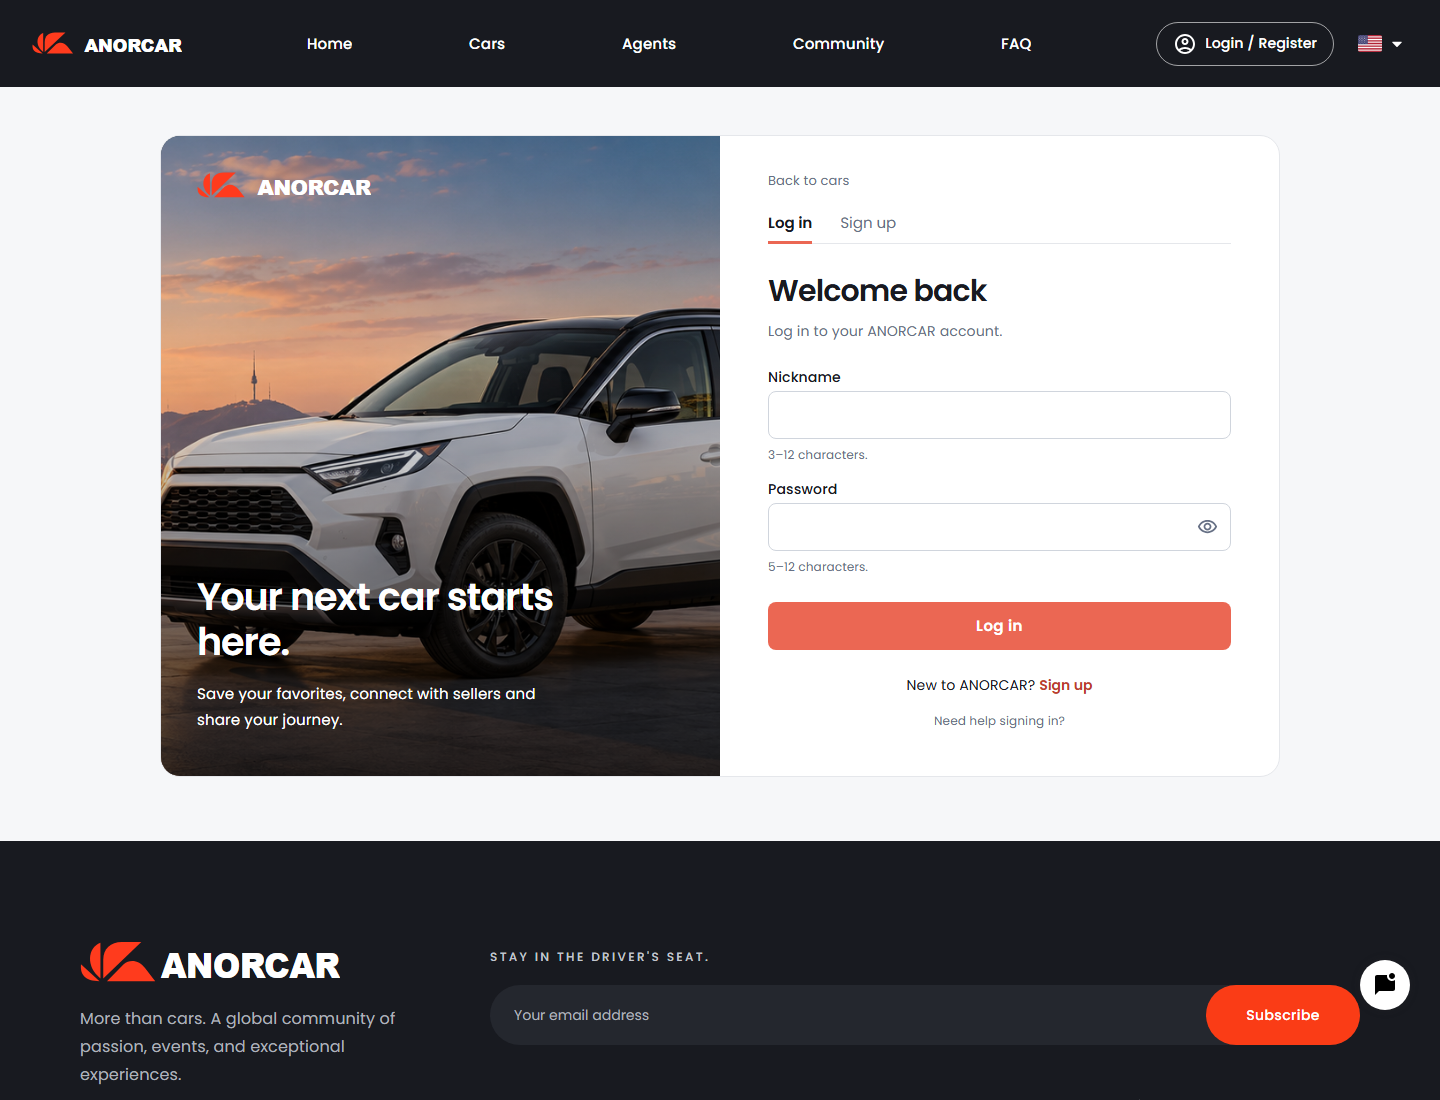
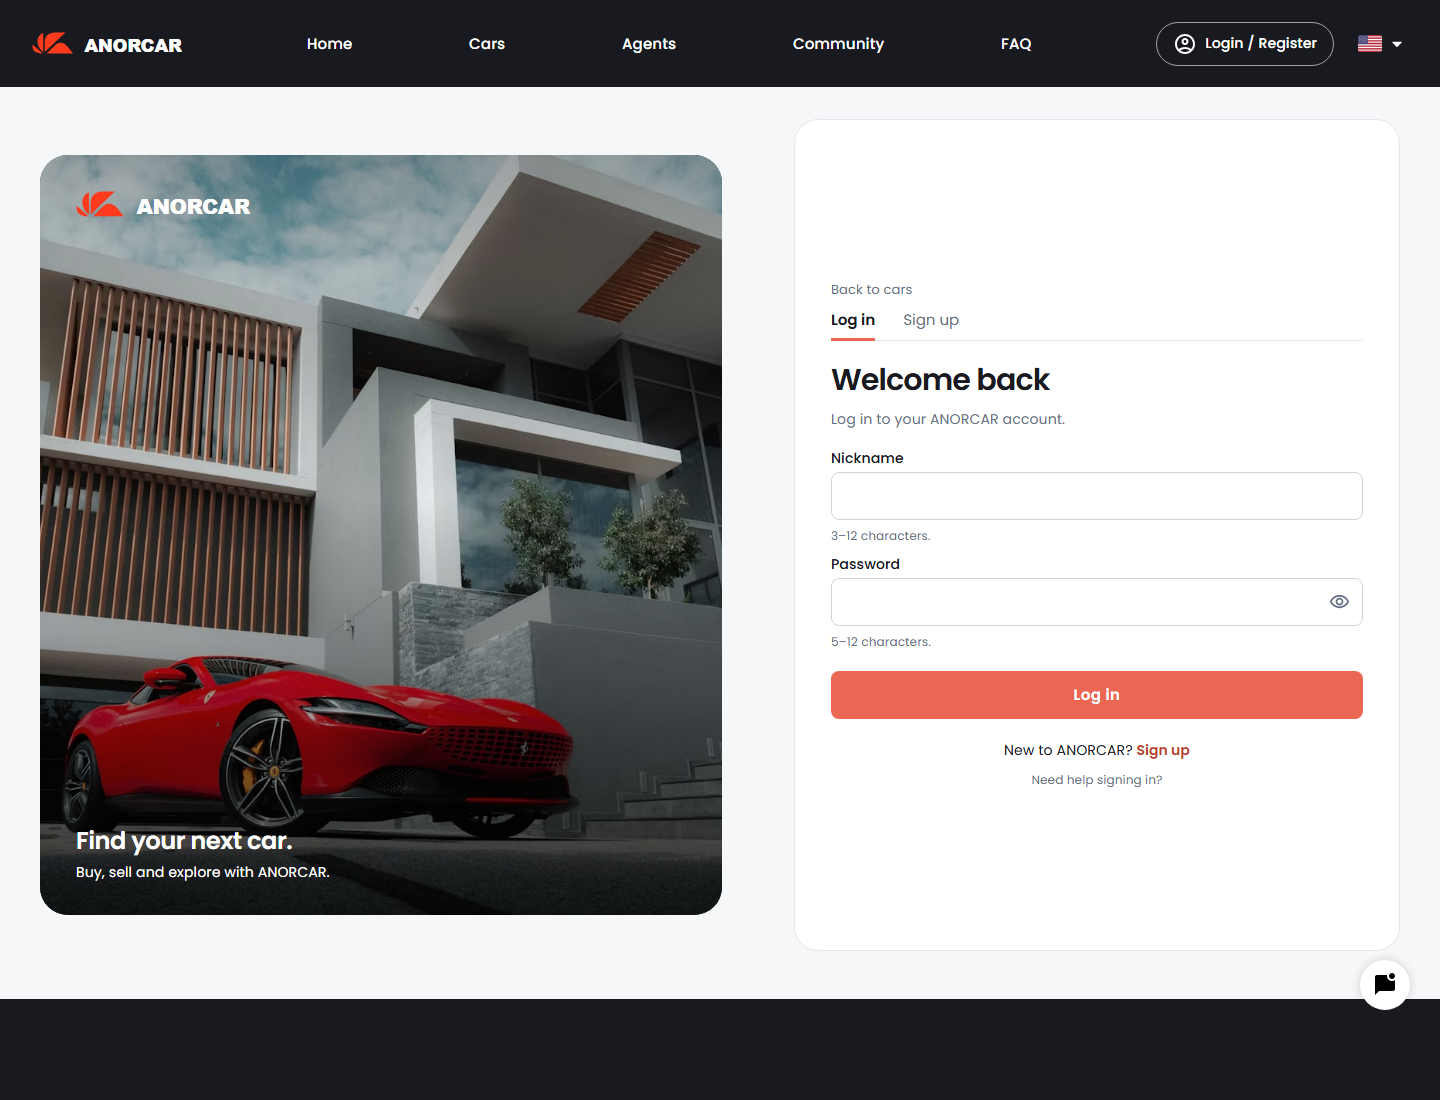
fix: redesign login and signup pages

diff --git a/scss/pc/account/join.scss b/scss/pc/account/join.scss
@@ -2,26 +2,26 @@
 #pc-wrap.auth-shell, #mobile-wrap.auth-shell {
  #top .navbar.marketplace-nav .navbar-main { position: relative; background: #181a20; }
  .chatting .chat-frame:not(.open) { display: none; }
- .auth-page { padding: 48px 24px 64px; background: #f6f7f9; color: #181a20; }
- .auth-frame { display: grid; grid-template-columns: minmax(0, 1fr) minmax(0, 1fr); width: min(1120px, 100%); margin: 0 auto; border: 1px solid #e5e7eb; border-radius: 20px; overflow: hidden; background: #fff; }
- .auth-visual { position: relative; min-height: 640px; background: #25333c; overflow: hidden; }
- .auth-photo { position: absolute; inset: 0; width: 100%; height: 100%; object-fit: cover; object-position: 62% center; }
- .auth-visual::after { content: ''; position: absolute; inset: 0; background: linear-gradient(180deg, rgba(0,0,0,.18), transparent 35%, rgba(0,0,0,.78)); pointer-events: none; }
+ .auth-page { padding: 32px 32px 48px; background: #f6f7f9; color: #181a20; }
+ .auth-frame { display: grid; grid-template-columns: minmax(0, 1.125fr) minmax(0, 1fr); align-items: center; gap: clamp(32px, 5vw, 88px); width: min(1360px, 100%); margin: 0 auto; }
+ .auth-visual { position: relative; height: 760px; background: #25333c; border-radius: 28px; overflow: hidden; }
+ .auth-photo { position: absolute; inset: 0; width: 100%; height: 100%; object-fit: cover; object-position: 42% center; }
+ .auth-visual::after { content: ''; position: absolute; inset: 0; background: linear-gradient(180deg, rgba(0,0,0,.28), transparent 45%, rgba(0,0,0,.72)); pointer-events: none; }
  .auth-wordmark { position: absolute; z-index: 1; top: 36px; left: 36px; }
  .auth-wordmark img { width: 174px; height: auto; }
- .auth-visual-copy { position: absolute; z-index: 1; left: 36px; right: 36px; bottom: 44px; color: #fff; }
- .auth-visual-copy h2 { margin: 0 0 16px; font-size: 38px; font-weight: 600; line-height: 1.2; letter-spacing: -1px; max-width: 380px; }
- .auth-visual-copy p { margin: 0; font-size: 15px; line-height: 1.7; max-width: 360px; }
- .auth-panel { padding: 36px 48px 40px; min-width: 0; }
- .auth-back { display: inline-block; color: #667085; font-size: 13px; margin-bottom: 28px; }
- .auth-mode { display: flex; border-bottom: 1px solid #e5e7eb; gap: 28px; margin-bottom: 28px; }
+ .auth-visual-copy { position: absolute; z-index: 1; left: 36px; right: 36px; bottom: 32px; color: #fff; }
+ .auth-visual-copy h2 { margin: 0 0 6px; font-size: 24px; font-weight: 600; line-height: 1.3; letter-spacing: -.4px; }
+ .auth-visual-copy p { margin: 0; font-size: 14px; line-height: 1.5; }
+ .auth-panel { padding: 28px 36px; min-width: 0; min-height: 832px; display: flex; flex-direction: column; justify-content: center; border: 1px solid #e5e7eb; border-radius: 24px; background: #fff; }
+ .auth-back { display: inline-block; align-self: flex-start; color: #667085; font-size: 13px; margin-bottom: 16px; }
+ .auth-mode { display: flex; border-bottom: 1px solid #e5e7eb; gap: 28px; margin-bottom: 20px; }
  .auth-mode button { position: relative; padding: 0 0 13px; background: none; border: 0; color: #667085; font: inherit; font-size: 15px; cursor: pointer; }
  .auth-mode button[aria-pressed=true] { color: #181a20; font-weight: 600; }
  .auth-mode button[aria-pressed=true]::after { position: absolute; content: ''; height: 3px; background: #eb6753; bottom: -1px; left: 0; right: 0; }
  .auth-panel h1 { margin: 0 0 10px; font-size: 30px; line-height: 1.25; font-weight: 600; letter-spacing: -.8px; }
- .auth-intro { margin: 0 0 28px; font-size: 14px; color: #667085; line-height: 1.6; }
+ .auth-intro { margin: 0 0 20px; font-size: 14px; color: #667085; line-height: 1.6; }
  .auth-panel fieldset { border: 0; margin: 0; padding: 0; min-width: 0; }
- .auth-field { display: flex; flex-direction: column; gap: 7px; margin-bottom: 18px; }
+ .auth-field { display: flex; flex-direction: column; gap: 7px; margin-bottom: 12px; }
  .auth-field label, .auth-roles legend { font-size: 14px; font-weight: 500; }
  .auth-field input { width: 100%; min-width: 0; height: 48px; border: 1px solid #d0d5dd; border-radius: 8px; padding: 0 14px; background: #fff; color: #181a20; font: inherit; font-size: 16px; }
  .auth-field input[aria-invalid=true] { border-color: #b42318; }
@@ -32,7 +32,7 @@
  .auth-password input { padding-right: 50px; }
  .auth-password button { position: absolute; top: 2px; right: 2px; width: 44px; height: 44px; display: grid; place-items: center; border: 0; border-radius: 6px; background: transparent; color: #667085; cursor: pointer; }
  .auth-password svg { width: 21px; }
- .auth-panel .auth-roles { display: grid; grid-template-columns: repeat(2, minmax(0,1fr)); gap: 12px; margin-bottom: 22px; }
+ .auth-panel .auth-roles { display: grid; grid-template-columns: repeat(2, minmax(0,1fr)); gap: 12px; margin-bottom: 16px; }
  .auth-roles legend { margin-bottom: 10px; }
  .auth-roles label { display: flex; align-items: center; gap: 10px; padding: 13px 12px; border: 1px solid #d0d5dd; border-radius: 8px; cursor: pointer; }
  .auth-roles label.selected { border-color: #eb6753; background: #fff7f5; }
@@ -42,31 +42,34 @@
  .auth-submit.MuiButton-root { width: 100%; min-height: 48px; margin-top: 8px; background: #eb6753; border-radius: 8px; color: #fff; font: inherit; font-size: 15px; font-weight: 600; box-shadow: none; text-transform: none; }
  .auth-submit.MuiButton-root:hover { background: #cf4d3a; }
  .auth-submit.Mui-disabled { background: #eee; color: #667085; }
- .auth-switch { margin: 24px 0 0; font-size: 14px; line-height: 1.6; text-align: center; }
+ .auth-switch { margin: 20px 0 0; font-size: 14px; line-height: 1.6; text-align: center; }
  .auth-switch button { border: 0; background: none; color: #bb3e2d; font: inherit; font-weight: 600; cursor: pointer; }
- .auth-help { margin: 18px 0 0; font-size: 12px; text-align: center; }
+ .auth-help { margin: 12px 0 0; font-size: 12px; text-align: center; }
  .auth-help a { color: #667085; white-space: normal; }
  .auth-panel button:focus-visible, .auth-page a:focus-visible, .auth-roles input:focus-visible { outline: 2px solid #eb6753; outline-offset: 4px; }
  .auth-panel button:disabled { cursor: wait; }
  .auth-panel .MuiAlert-root { margin-bottom: 12px; overflow-wrap: anywhere; }
  @media (max-width: 900px) {
   .auth-page { padding: 32px 20px 48px; }
-  .auth-panel { padding: 28px; }
+  .auth-frame { grid-template-columns: minmax(0,1fr); width: min(600px, 100%); gap: 24px; }
+  .auth-visual { height: 300px; }
+  .auth-photo { object-position: 42% 82%; }
+  .auth-panel { padding: 28px; min-height: 0; }
   .auth-visual-copy { left: 28px; right: 28px; }
-  .auth-visual-copy h2 { font-size: 32px; }
+  .auth-visual-copy h2 { font-size: 22px; }
   .auth-roles label { padding: 12px 8px; gap: 6px; }
  }
  @media (max-width: 680px) {
   .auth-page { padding: 24px 16px 40px; }
-  .auth-frame { grid-template-columns: minmax(0,1fr); border-radius: 14px; }
-  .auth-visual { min-height: 160px; }
+  .auth-frame { gap: 20px; }
+  .auth-visual { height: 220px; border-radius: 18px; }
   .auth-wordmark { top: 22px; left: 24px; }
   .auth-wordmark img { width: 140px; }
-  .auth-photo { object-position: 62% 56%; }
-  .auth-visual-copy { left: 24px; right: 24px; bottom: 20px; }
-  .auth-visual-copy h2 { font-size: 24px; margin: 0; max-width: none; letter-spacing: -.5px; }
-  .auth-visual-copy p { display: none; }
-  .auth-panel { padding: 24px; }
+  .auth-photo { object-position: 42% 82%; }
+  .auth-visual-copy { left: 24px; right: 24px; bottom: 18px; }
+  .auth-visual-copy h2 { font-size: 20px; }
+  .auth-visual-copy p { font-size: 12px; }
+  .auth-panel { padding: 24px; border-radius: 18px; }
   .auth-panel h1 { font-size: 27px; }
   .auth-back { margin-bottom: 22px; }
   .auth-mode { margin-bottom: 24px; }

diff --git a/pages/account/join.tsx b/pages/account/join.tsx
@@ -102,11 +102,11 @@ const Join: NextPage = () => {
    <Head><title>{`${t(signup ? 'Create account' : 'Log in')} | ANORCAR`}</title></Head>
    <div className="auth-frame">
     <aside className="auth-visual">
-     <img className="auth-photo" src="/img/car/home-hero.png" alt="" />
+     <img className="auth-photo" src="/img/car/loginpageimg.png" alt="" />
      <Link href="/" className="auth-wordmark"><img src="/img/logo/anorcar-white.svg" alt="ANORCAR" /></Link>
      <div className="auth-visual-copy">
-      <h2>{t('Your next car starts here.')}</h2>
-      <p>{t('Save your favorites, connect with sellers and share your journey.')}</p>
+      <h2>{t('Find your next car.')}</h2>
+      <p>{t('Buy, sell and explore with ANORCAR.')}</p>
      </div>
     </aside>
     <div className="auth-panel">
@@ -145,7 +145,7 @@ const Join: NextPage = () => {
         </div>
         <fieldset className="auth-roles">
          <legend>{t('How will you use ANORCAR?')}</legend>
-         {[{ value: MemberType.USER, label: 'Buyer', description: 'Find and save cars' }, { value: MemberType.AGENT, label: 'Seller', description: 'List and sell cars' }].map(role => (
+         {[{ value: MemberType.USER, label: 'User', description: 'Find and save cars' }, { value: MemberType.AGENT, label: 'Agent', description: 'List and sell cars' }].map(role => (
           <label key={role.value} className={input.type === role.value ? 'selected' : ''}>
            <input type="radio" name="memberType" value={role.value} checked={input.type === role.value} onChange={() => change('type', role.value)} />
            <span><strong>{t(role.label)}</strong><small>{t(role.description)}</small></span>

diff --git a/docs/LOGIN_SIGNUP_UI.md b/docs/LOGIN_SIGNUP_UI.md
@@ -3,7 +3,7 @@
 The existing `/account/join` page now has a responsive ANORCAR login/signup form. Signup is directly accessible through `/account/join?mode=signup`; the default route opens login. Existing referrer queries survive mode changes.
 
 - Preserved Pages Router, layout HOC, MUI, SCSS, Apollo login/signup operations, JWT storage and 15-minute access/30-day cookie refresh sessions.
-- Reused the automotive homepage image with a left image/right form desktop layout and compact mobile banner. Shared marketplace navigation sits above the page, without overlapping the form. Removed the old real-estate banner and unused auth hero.
+- Uses the supplied `/img/car/loginpageimg.png` with a left image/right form desktop layout and compact mobile banner. Shared marketplace navigation sits above the page, without overlapping the form. Removed the old real-estate banner and unused auth hero.
 - Added labeled fields, password masking/show-hide, autocomplete, signup password confirmation, buyer (`USER`)/seller (`AGENT`) radios, field validation matching backend nickname 3–12/password 5–12 limits, and phone presence validation.
 - Enter submits the form; a synchronous lock blocks duplicate requests. Pending fields, mode controls and submit button are disabled. Backend errors appear inline and failed attempts retain input for retry.
 - Successful login/signup uses existing auth helpers and returns to a safe local referrer or home. Login-page loops, protocol-relative URLs, backslashes and control characters are excluded.
@@ -19,3 +19,16 @@ Backend instructions reference `anorcar/docs/ai`, which does not exist; existing
 - `yarn build` compiled and generated all 91 localized pages; lint retains the project's img/Link and other warnings.
 - `yarn node scripts/qa-login.cjs` passed login/signup at 320/390/768/1024/1440px, image loading, navbar clearance, masked/show-hide passwords, blank/length/confirmation/phone validation, double submission, exact trimmed GraphQL payloads, USER/AGENT roles, credentialed client headers, inline backend/network errors, retained values/retry, successful auth storage and referrer navigation, unsafe referrer rejection, mode/referrer preservation and KR/RU mobile localization. No uncaught runtime exceptions or live account writes.
 - Screenshots were visually reviewed. A static-page readiness guard that kept the queries-free login submit disabled was removed; pending requests still disable submission. Two Next dev servers sharing `.next-dev` were replaced with one on port 3000. Backend remains on port 3007.
+
+## Supplied login image — 2026-10-12
+
+- Replaced the homepage photo with the user's `loginpageimg.png` on both login and signup. Kept the original file; CSS cover sizing preserves its proportions. Adjusted the crop to the car and increased the mobile banner to 220px.
+- Followed the supplied caption reference with a compact bottom-left heading, “Find your next car.”, and subtitle, “Buy, sell and explore with ANORCAR.” Added EN/KR/RU translations and a lower dark overlay for readability.
+- Yarn typecheck and the existing five-width/three-locale login browser suite passed. Refreshed screenshots reviewed. Authentication behavior remains unchanged.
+
+## Reference layout sizing — 2026-10-13
+
+- Matched the supplied layout proportions with independent rounded image/form blocks, a wider image column (1.125:1), responsive 32–88px column gap and a centered 1360px maximum layout width.
+- Desktop photo height is 760px; both login/signup forms share an 832px minimum height. Content can expand for translations and errors. Compact spacing keeps signup fields within the same default desktop height as login.
+- Below 900px the blocks stack with automatic form height; mobile keeps a 220px image. Existing supplied image, caption, account fields and authentication behavior remain.
+- Yarn typecheck, existing five-width/three-locale browser checks and diff check passed; desktop/mobile previews refreshed and visually reviewed.
